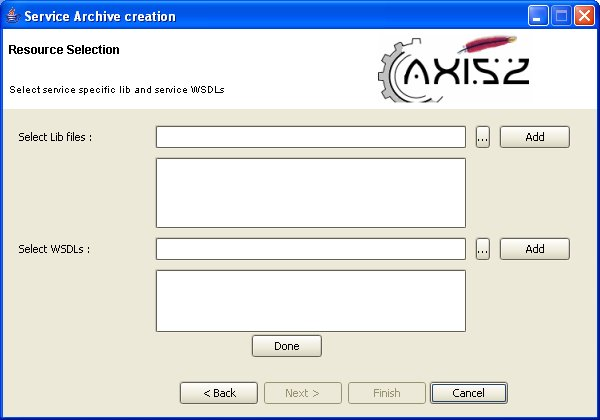
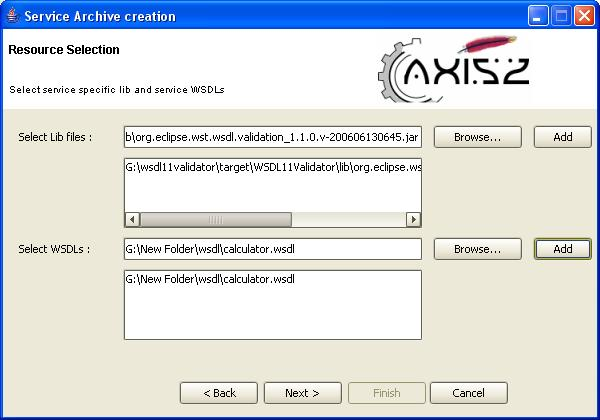
Keith wanted to commit this guide due to him being travelling....
I removed some unnecessary images.. We already have a oversized doc distro :(..

git-svn-id: https://svn.apache.org/repos/asf/webservices/axis2/branches/java@473857 13f79535-47bb-0310-9956-ffa450edef68

diff --git a/1_1/xdocs/tools/1_1/idea/Idea_plug-in_userguide.html b/1_1/xdocs/tools/1_1/idea/Idea_plug-in_userguide.html
@@ -9,11 +9,9 @@
 </head>
 
 <body lang="en">
-<h1>Code Generator Wizard- IntelliJ IDEA Plug-in</h1>
+<h1>Axis2 plugin for IntelliJ IDEA</h1>
 
-<p>This document explains installation and usage of IDEA code generation
-plug-in to create service archives and generate java class files from WSDL
-files.</p>
+<p>This document explains the installation and usage of Axis2 plugin for IntelliJ IDEA.</p>
 
 <p><a href="http://ws.apache.org/axis2/tools/index.html">[Download
 Plug-in]</a></p>
@@ -34,27 +32,29 @@ Plug-in]</a></p>
 
 <h2>Introduction</h2>
 
-<p>Using this IntelliJ IDEA plug-in you can either create a service archive
-that can be deployed as a Web service to the Axis2 or generate java class
-files from a WSDL file. Installation process is described first here followed
-by the above mentioned operations.</p>
+<p>The Axis2 plugin for IntelliJ IDEA helps users to create service archives 
+which can be deployed in Axis2, and generate java classes files from WSDL
+files. The following section describes the installation proceedure followed
+by the usage of the plugin.</p>
+
 <a name="installation"></a>
 
 <h2>Installation</h2>
 
 <p>First <a href="http://ws.apache.org/axis2/tools/index.html">download</a>
-the plug-in which is a zipped file, and extract it into plugins directory in
-IDEA installation directory or plugins directory in user directory
-(user/idea/conf/plugins). If you have correctly extracted the file you would
-see a directory called axis2-idea-plugin in which there should be three directories.</p>
+the plug-in which is a zipped file, and extract it into plugins directory 
+which is located in the directory where IDEA is installed. If a previous 
+version of the plugin resides in this directory you will have to delete it 
+prior to extracting the new zip file. If you have extracted the file correctly 
+you would see a directory called axis2-idea-plugin.</p>
 
 <p>Next step is to restart IDEA so that the changes can take place. If the
-plug-in has been installed correctly, when you restart IDEA you will see
-following icons in IDEA .</p>
+plug-in has been installed correctly, you will see
+following icons in IDEA when it is restarted.</p>
 
 <p><img alt="Figure 1" src="images/idea-icons.jpg"></p>
 
-<p>Also if you right-click on editor page of IDEA you would see a link to the
+<p>Also if you right-click on the  IDEA editor you would see a link to the
 same plug-in.</p>
 
 <p><img alt="Figure2" src="images/idea-popup.jpg"></p>
@@ -73,18 +73,18 @@ you to select one of the following two options.</p>
 <p>If you want to create a service archive obviously you must select "Create
 a service archive" option. Like wise, if u want to generate java class file
 from a WSDL file you must select the radio button option "WSDL2Java
-codegeneration".</p>
+code generation".</p>
 
 <h2><a name="WSDL2Java_Code_Generation">WSDL2Java Code Generation</a></h2>
 
-<p>Select "WSDL2Java codegeneration" and click on the button "OK" to generate
+<p>Select "WSDL2Java code generation" and click on the button "OK" to generate
 code from a WSDL file. Then the following window will appear.</p>
 
 <p><strong>WSDL2Java Page 2:</strong></p>
 
 <p><img alt="Figure4" src="images/fig2.jpg"></p>
 
-<p>To move on to the next page the WSDL file location must be given. The
+<p>Once the WSDL file is selected you will be able to move onto the next page. The
 "Browse" button can be used to easily browse for a file rather than having to
 type the whole path.</p>
 
@@ -117,8 +117,7 @@ generated will also be added as a project library to the current active idea pro
 			</li>
 			
 			<li>When both server and client side is generated under default configurations the client stub is 
-			added are a jar to the current idea project and the user is adked to select the output path for 
-			the server side code.			
+			added are a jar to the current idea project and the user is taken to page 5.			
 			</li>
 
 	</ul>
@@ -126,24 +125,6 @@ generated will also be added as a project library to the current active idea pro
 
 <p><img alt="Figure5" src="images/fig19.jpg"></p>
 
-<p><strong>Here's some information on the options for selection:</strong></p>
-<ul>
-  <li>Output language can be Java, C#. But we have not fully tested C#
-    codegeneration, therefore, it is better to select Java as output
-  language.</li>
-  <li>Since Axis2 supports both synchronous and asynchronous client
-    programming model, the tool has provided a way to select one of the two
-    from this page.</li>
-  <li>The default data binding type is adb (Axis2 data binding). Although the
-    tool is capable of providing XML beans, due to class loading issues in
-    XML beans, current implementation only generate code with OM and adb.</li>
-  <li>As for the package name of the generated code, you can set the name as
-    you wish.</li>
-</ul>
-
-<p>With these enhanced options novices need not worry about the options that 
-can be set because the default options cover the most common cases. Advanced 
-users will find it very easy to "turn the knobs" using the custom generation option.</p>
 
 <p><strong>WSDL2Java Page 4:</strong></p>
 
@@ -158,16 +139,37 @@ of the code being generated.</p>
   <li>Output language can be Java, C#. But we have not fully tested C#
     codegeneration, therefore, it is better to select Java as output
   language.</li>
-  <li>Since Axis2 supports both synchronous and asynchronous client
-    programming model, the tool has provided a way to select one of the two or even both
-    from this page.</li>
+  <li>If the WSDL comprises of several services, the user can select the service which the code should be generated for.</li>
+  <li>If the WSDL comprises of several ports for a particullar service, the user can select the port which the code should be generated for.</li>
   <li>The default data binding type is adb (Axis2 data binding). Although the
     tool is capable of providing XML beans, due to class loading issues in
     XML beans, current implementation only generate code with OM and adb.</li>
   <li>As for the package name of the generated code, you can set the name as
     you wish.</li>
+  <li>Users can select the one out of the three options Generate Client Side, 
+  Generate Server Side and Generate all. The user will be able to select further options based on his options selected here. These sub options are explained below.</li>
+
+  <ul>
+  <li>If user selects Generate Client Side, he can further select the service invocation style. 
+Since Axis2 supports both synchronous and asynchronous client
+    programming model, the tool has provided a way to selecting the invocation style.</li>
+  <li>If user selects Generate Server Side, he can also generate a default service XML file. 
+  If the user selects generate an interface for skeleton option then it only generates an 
+interface for the server side. If so the user has to implement this interface. If this 
+option is not delected the skeleton class is generated which the user can fill in later on.</li> 
+  <li>If user selects Generate all option .......................</li>  
+  </ul> 
+
+  <li>The dafault behaviour of the code generator is to map namespaces to 
+package names logically, but if the user wishes to change the package 
+names of the generated classes he can do so by changing the values in 
+the Namespace to Packagename mapping table.</li>  
+
 </ul>
 
+<p>With these enhanced options novices need not worry about the options that 
+can be set because the default options cover the most common cases. Advanced 
+users will find it very easy to "turn the knobs" using the custom generation option.</p>
 <p><strong>WSDL2Java Page 5:</strong></p>
 
 <p><img alt="Figure6" src="images/fig3.jpg"></p>
@@ -196,7 +198,7 @@ plug-in wizard.</p>
 
 <p><strong>Page 1:</strong></p>
 
-<p><img alt="Fig5" src="images/fig5.jpg"></p>
+<p><img alt="Fig5" src="images/fig1.jpg"></p>
 
 <p><strong>Service Archive Page 2:</strong></p>
 
@@ -234,7 +236,7 @@ in the middle of the wizard.</p>
 <p><strong>Service Archive (sub wizards 1 &amp; 2) Page 3:</strong></p>
 
 <p>From this page you have to select the location of the service classes
-directory, from where you compile output location. You do not need to type
+directory (the location of the compiled classes). You do not need to type
 path, simply browse and select.</p>
 
 <p><img alt="fig7" src="images/fig7.jpg"></p>
@@ -243,26 +245,19 @@ path, simply browse and select.</p>
 
 <p><strong>Service Archive (sub wizards 1 &amp; 2) Page 4:</strong></p>
 
-<p>Here you select service specific external libraries and service WSDL
-files. In the case of a service group you can add any number of WSDL files
-depending on the services in the service group. If you want to add multiple
-WSDL files to a single service type you can do that as well.</p>
+<p>Here you select service specific external libraries (third party libraries) and service WSDL
+files. If you want to add multiple WSDL files to a single service type you can do that as well.</p>
 
 <p><img alt="fig8" src="images/fig8.jpg"></p>
 
-<p>To add libraries first click on the small (...) button to browse for
+<p>To add libraries first click on the browse button to browse for
 library files and then click on the "Add" button. Once added the selected
 file will appear in the list box.</p>
 
-<p>To add WSDLs first click on the small (...) button to browse for WSDL file
+<p>To add WSDLs first click on the browse button to browse for WSDL file
 and then click the "Add" button to add the file to the list.</p>
 
-<p>See page below:</p>
-
-<p><img alt="fig9" src="images/fig9.jpg"></p>
-
-<p>After adding external libraries and service WSDL files click on the "Done"
-button and then on the "Next" button to move to next page.</p>
+<p>After adding external libraries and service WSDL files click on the "Next" button to move to next page.</p>
 
 <p><strong>Service Archive (sub wizards 1 &amp; 2) Page 5:</strong></p>
 
@@ -286,7 +281,7 @@ but remember that the service name should be unique throughout<em></em> the
 system.</p>
 
 <p>When you have completed this particular service click on the button
-"Done". In the case of a service group when you click on the "Done" button
+"Next". In the case of a service group when you click on the "Next" button
 for that particular service the following dialog will appear with option to
 add more service(s) to a service group.</p>
 
@@ -375,7 +370,7 @@ location of service classes directory. Click on the "Select" buttons and
 browse the file system to find required document and location.</p>
 
 <p>Click on the "Next" button which will take you to a page which allows you
-to edit the services.xml in the same manner as "Sub Wizard 1 &amp; Sub Wizard
+to add third party libraries and WSDL's in the same manner as "Sub Wizard 1 &amp; Sub Wizard
 2" section's <a href="#Note">Page 6 - Edit service descriptors</a>. Note that
 Sub Wizard 3 from this point takes the same pages as 6 to 7 of Sub Wizards 1
 &amp; 2.</p>
